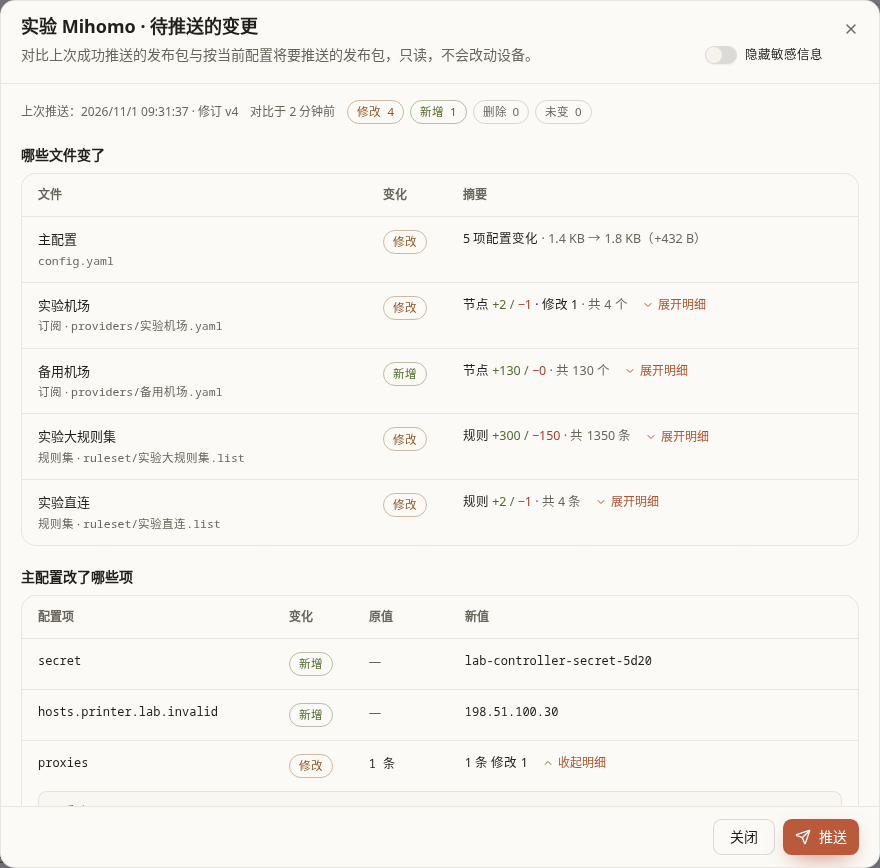
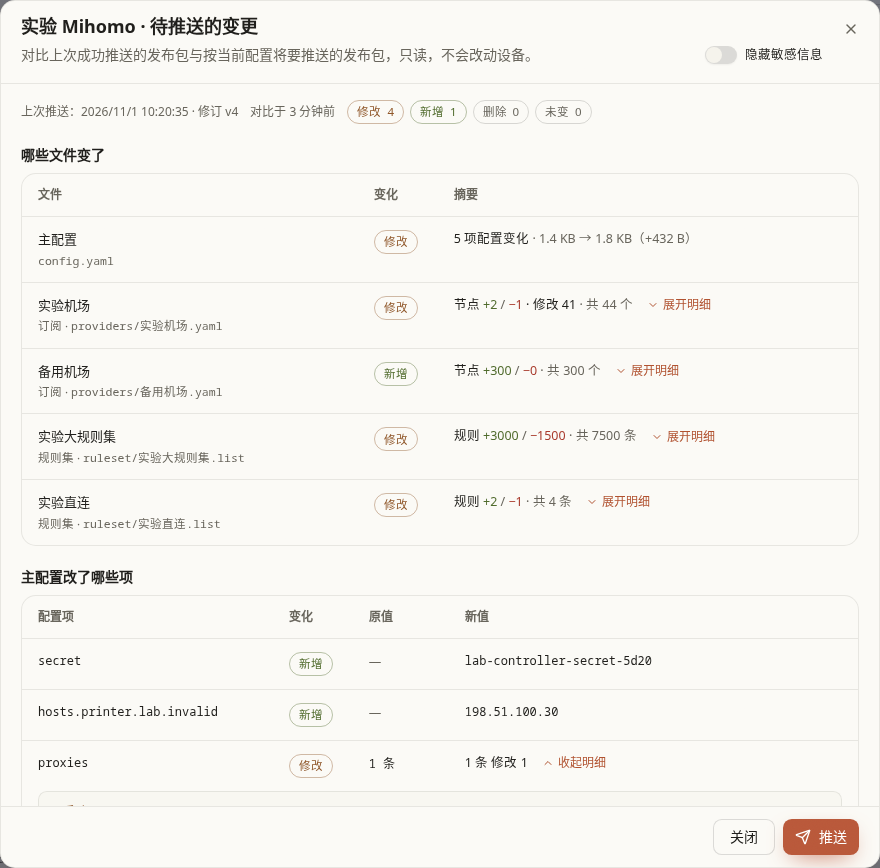
docs(agents): load more, search and reload in the push-diff details
The manual explains paging, the scroll area, what search matches (never
credentials), the kept-entry limits and the 对比结果已更新 prompt, with new
screenshots (load more, search, stale, phone search) and re-shot ones.
DESIGN.md describes the controls. The local browser scenario now changes
3000 / 1500 rules, adds 300 nodes and 40 password changes past the first
page, loads every page, searches, hides credentials on later pages and
changes the configuration under an open dialog. The clear button no longer
moves away when pressed, the node placeholder fits a phone.

diff --git a/frontend/src/components/agents/PushDiffFileDetails.vue b/frontend/src/components/agents/PushDiffFileDetails.vue
@@ -6,12 +6,14 @@
         <Input v-model="search" :placeholder="placeholder" :aria-label="placeholder" :maxlength="MAX_QUERY_CHARS" :disabled="stale"
           enterkeyhint="search" autocomplete="off" class="h-8 bg-background pr-9 pl-8 text-[12.5px] max-md:pr-11" data-detail-search
           @keydown.enter.prevent="applyQuery(search.trim())" />
-        <Button v-if="search && !stale" variant="ghost" size="icon-sm" class="absolute top-1/2 right-0 -translate-y-1/2 text-muted-foreground"
+        <!-- 不用 translate 居中：按钮按下时的 active:translate-y-px 会把它挪开 -->
+        <Button v-if="search && !stale" variant="ghost" size="icon-sm" class="absolute inset-y-0 right-0 my-auto text-muted-foreground"
           aria-label="清空搜索" @click="clearSearch">
           <X class="size-3.5" />
         </Button>
       </div>
-      <span class="text-[12px] text-muted-foreground" aria-live="polite" data-search-summary><template v-if="query && !stale"><template v-if="searching">正在搜索…</template><template v-else>匹配 <span class="num">{{ matched }}</span> {{ unit.unit }}</template></template></span>
+      <!-- 手机上只给读屏：每组标题已写匹配条数，不再单占一行 -->
+      <span class="text-[12px] text-muted-foreground max-sm:sr-only" aria-live="polite" data-search-summary><template v-if="query && !stale"><template v-if="searching">正在搜索…</template><template v-else>匹配 <span class="num">{{ matched }}</span> {{ unit.unit }}</template></template></span>
     </div>
 
     <div v-if="stale" role="alert" class="flex flex-wrap items-center gap-x-3 gap-y-1.5 rounded-md bg-warning-soft px-2.5 py-1.5 text-[12.5px]" data-details-stale>
@@ -23,7 +25,7 @@
       </Button>
     </div>
 
-    <div class="push-diff-detail-scroll -mx-1 flex max-h-[420px] min-w-0 flex-col gap-2.5 overflow-y-auto overscroll-contain px-1 max-sm:max-h-[60dvh]"
+    <div class="-mx-1 flex max-h-[420px] min-w-0 flex-col gap-2.5 overflow-y-auto overscroll-contain px-1 max-sm:max-h-[60dvh]"
       tabindex="0" role="region" :aria-label="`${unit.noun}明细`" data-details-scroll>
       <section v-for="group in details.groups" :key="group.change" :data-group="group.change">
         <p class="m-0 text-[12px] text-muted-foreground">
@@ -62,7 +64,7 @@
           <span v-else-if="footer(group) === 'done'" data-all-loaded>已全部加载</span>
         </div>
       </section>
-      <p v-if="query && !stale && !searching && !matched" class="m-0 text-[12px] text-muted-foreground" data-search-empty>
+      <p v-if="query && !stale && !searching && !matched && !failed" class="m-0 text-[12px] text-muted-foreground" data-search-empty>
         没有匹配「{{ query }}」的{{ unit.noun }}。
       </p>
     </div>
@@ -115,7 +117,7 @@ const unit = computed(() => detailUnit(props.details.kind))
 const pageable = computed(() => Boolean(props.details.paging && props.version))
 // 还有没随接口返回的条目时才需要搜索
 const searchable = computed(() => pageable.value && props.details.groups.some(group => group.total > group.entries.length))
-const placeholder = computed(() => props.details.kind === 'nodes' ? '搜索节点名、类型、服务器或字段' : '搜索规则')
+const placeholder = computed(() => props.details.kind === 'nodes' ? '搜索节点名、服务器或字段' : '搜索规则')
 
 const base = reactive<Record<string, ListState>>({})
 const found = reactive<Record<string, ListState>>({})
@@ -136,6 +138,7 @@ watch(() => props.details, details => {
 const view = (group: PushDiffDetailGroup): ListState => (query.value ? found[group.change] : base[group.change]) || blank()
 const searching = computed(() => props.details.groups.some(group => found[group.change]?.loading && !found[group.change]?.entries.length))
 const matched = computed(() => props.details.groups.reduce((sum, group) => sum + (found[group.change]?.total || 0), 0))
+const failed = computed(() => props.details.groups.some(group => found[group.change]?.error))
 
 function remaining(group: PushDiffDetailGroup) {
   const state = view(group)

diff --git a/frontend/tests/agent-push-diff-paging.test.ts b/frontend/tests/agent-push-diff-paging.test.ts
@@ -256,7 +256,7 @@ describe('push diff details: search', () => {
     const calls = server()
     await open()
     const detail = await expand(FEED)
-    expect(detail.querySelector<HTMLInputElement>('[data-detail-search]')!.getAttribute('aria-label')).toBe('搜索节点名、类型、服务器或字段')
+    expect(detail.querySelector<HTMLInputElement>('[data-detail-search]')!.getAttribute('aria-label')).toBe('搜索节点名、服务器或字段')
     await type(detail, '备用 05')
     detail.querySelector<HTMLInputElement>('[data-detail-search]')!.dispatchEvent(new KeyboardEvent('keydown', { key: 'Enter' }))
     await flushPromises()

diff --git a/scripts/tests/push_diff_local.py b/scripts/tests/push_diff_local.py
@@ -12,9 +12,10 @@ Run on the test server only, from this checkout synced by rt. Touches no PVE gue
   start    serve in the background (its own session, no inherited descriptors such as rt's lock) and wait
   prepare  (server running) push once as the baseline through the API, wait for 已同步, then make the edits of
            push_diff_lab.py change through the same API as the pages, plus a second subscription in the group
-           (its pull URL carries the access token, its 130 nodes are more than one file lists). The subscription
-           gets a node added, one removed, one renamed twin and one modified (server, port, password and a nested
-           plugin-opts field); the large rule set gains 300 rules and loses 150 (more than one file lists).
+           (its pull URL carries the access token, its 300 new nodes take several pages). The subscription gets a
+           node added, one removed, one renamed twin and one modified (server, port, password and a nested
+           plugin-opts field), and 40 more nodes change their password (a second page of credentials); the large
+           rule set gains 3000 rules and loses 1500 (pages, search, inner scrolling).
   stop     stop a background serve;  clean  remove the private data
 
 Then: CF_PUSHDIFF_WORK=/tmp/cf-pushdiff-local CF_PUSHDIFF_AGENT='实验 Mihomo' node scripts/tests/push_diff_browser.mjs changed
@@ -48,10 +49,10 @@ NODE_PASSWORD_BEFORE = 'lab-node-pass-before-41f2'
 NODE_PASSWORD_AFTER = 'lab-node-pass-after-8d3c'
 RULES_BEFORE = '+.alpha.lab.invalid\n+.beta.lab.invalid\n+.gamma.lab.invalid'
 RULES_AFTER = '+.alpha.lab.invalid\n+.gamma.lab.invalid\n+.delta.lab.invalid\n+.epsilon.lab.invalid'
-# More changes than one file lists (200 rules): 300 added, 150 removed.
-BIG_BEFORE = '\n'.join(f'+.site-{index:04d}.big.lab.invalid' for index in range(1200))
-BIG_AFTER = '\n'.join([f'+.site-{index:04d}.big.lab.invalid' for index in range(150, 1200)]
-                      + [f'+.fresh-{index:03d}.big.lab.invalid' for index in range(300)])
+# Many pages: 3000 rules added, 1500 removed.
+BIG_BEFORE = '\n'.join(f'+.site-{index:04d}.big.lab.invalid' for index in range(6000))
+BIG_AFTER = '\n'.join([f'+.site-{index:04d}.big.lab.invalid' for index in range(1500, 6000)]
+                      + [f'+.fresh-{index:04d}.big.lab.invalid' for index in range(3000)])
 HOSTS_DOMAIN = 'printer.lab.invalid'
 CUSTOM = '''mixed-port: 7890
 allow-lan: true
@@ -66,12 +67,21 @@ dns:
   nameserver: [198.51.100.53]
   proxy-server-nameserver: [198.51.100.53]
 '''
+# 40 nodes whose password changes: past the first page, so later pages carry credentials too.
+BULK = 40
+
+
+def bulk(when):
+    return ''.join(f'  - {{name: F 批量 {index:02d}, type: ss, server: bulk-{index:02d}.lab.invalid, port: {30000 + index}, '
+                   f'cipher: aes-128-gcm, password: lab-bulk-pass-{when}-{index:02d}}}\n' for index in range(1, BULK + 1))
+
+
 NODES = f'''proxies:
   - {{name: A 香港, type: ss, server: edge-a.lab.invalid, port: 11005, cipher: aes-128-gcm,
      password: {NODE_PASSWORD_BEFORE}, plugin: obfs, plugin-opts: {{mode: tls, host: cdn-a.lab.invalid}}}}
   - {{name: B 日本, type: socks5, server: edge-b.lab.invalid, port: 1080}}
   - {{name: E 下线, type: socks5, server: edge-e.lab.invalid, port: 1080}}
-'''
+''' + bulk('before')
 # A 香港 changes server, port, password and plugin-opts.host; E 下线 goes; C 新增节点 and a second B 日本 arrive.
 NODES_AFTER = f'''proxies:
   - {{name: A 香港, type: ss, server: edge-a2.lab.invalid, port: 11008, cipher: aes-128-gcm,
@@ -79,12 +89,12 @@ NODES_AFTER = f'''proxies:
   - {{name: B 日本, type: socks5, server: edge-b.lab.invalid, port: 1080}}
   - {{name: C 新增节点, type: trojan, server: edge-c.lab.invalid, port: 443, password: lab-trojan-pass-c7}}
   - {{name: B 日本, type: socks5, server: '2001:db8::b', port: 1080}}
-'''
+''' + bulk('after')
 SUBSCRIPTIONS = {
     'airport-v1': NODES,
     'airport-v2': NODES_AFTER,
     'backup': 'proxies:\n' + ''.join(f'  - {{name: D 备用 {index:03d}, type: socks5, server: backup.lab.invalid, '
-                                     f'port: {20000 + index}}}\n' for index in range(1, 131)),
+                                     f'port: {20000 + index}}}\n' for index in range(1, 301)),
 }
 
 
